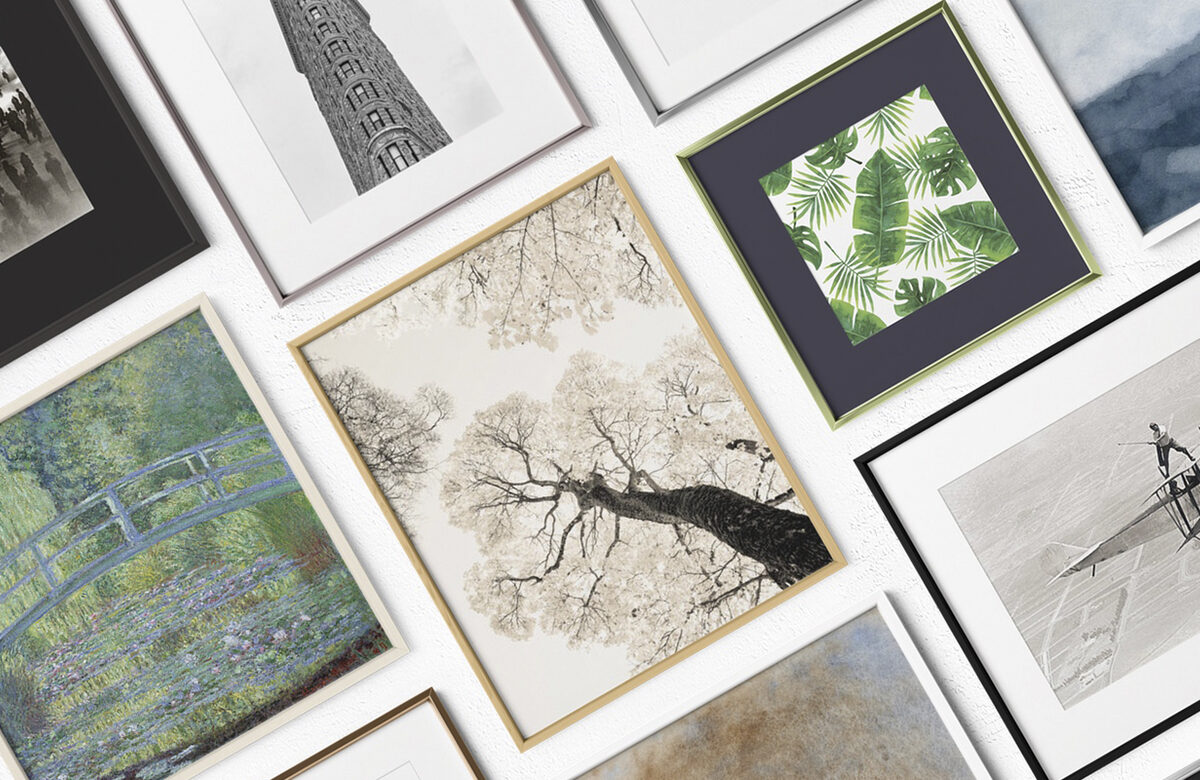
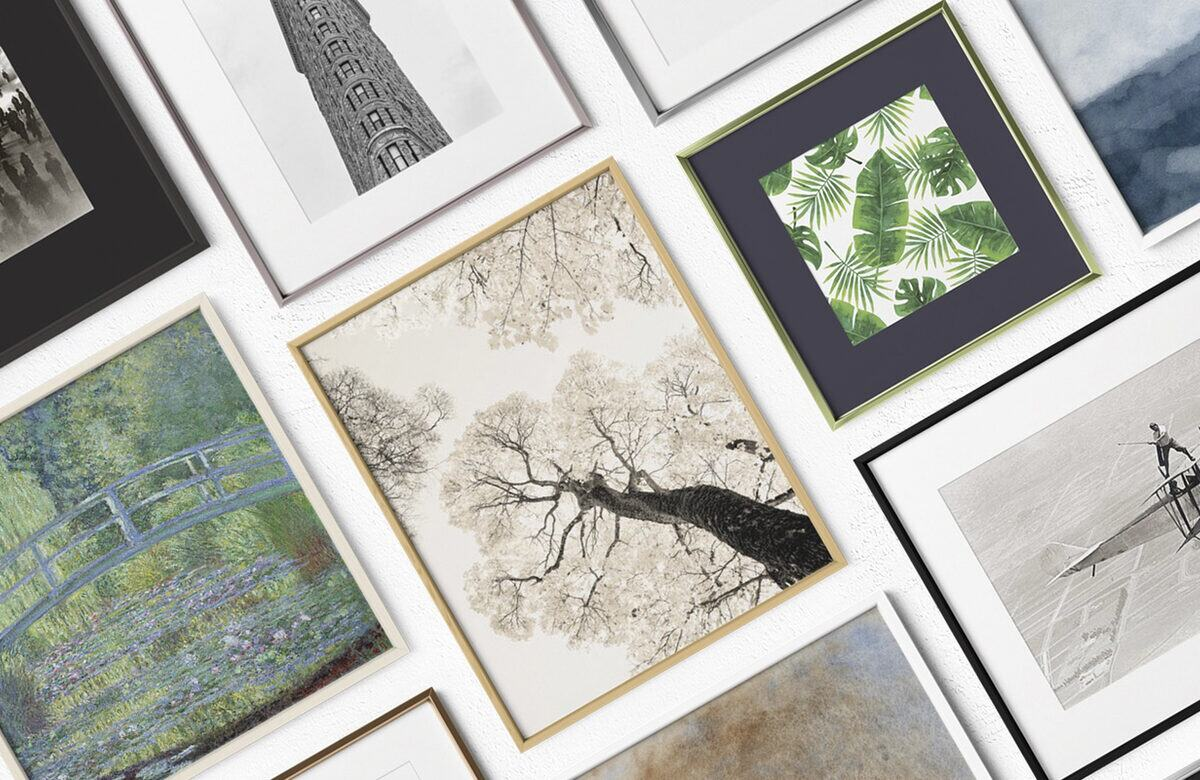
Velocidad: imágenes WebP, slider con <picture> y scripts con wp_enqueue
- Slider, fondos y popup en WebP (6,0 MB → 0,9 MB); fotos del blog de
  la demo recomprimidas en JPG porque el blueprint las sube a WordPress.
- Cada slide usa <picture>: antes los dos <img> con d-none se
  descargaban ambos y el celular bajaba también los banners de escritorio.
  La primera imagen con fetchpriority="high".
- Estilos y scripts con wp_enqueue (versión = fecha de modificación):
  un solo jQuery, el de WordPress, al final y sin jquery-migrate, con el
  alias $ para app.js; Bootstrap del CDN con SRI; Font Awesome sin
  bloquear el renderizado; Contact Form 7 solo en la plantilla Contacto;
  sin el script de emojis.
- Íconos de servicios con carga diferida.

Changed region(s): [[0.74, 0.1846, 0.7708, 0.2154]]

diff --git a/style.css b/style.css
@@ -309,7 +309,7 @@ a.wp-block-button__link:hover{
 
 /*--COTIZAR--*/
 .bannerCotizar{
-    background-image: url(assets/imagenes/banners/banner_cotizador.jpg);
+    background-image: url(assets/imagenes/banners/banner_cotizador.webp);
     background-position: left;
     background-repeat: no-repeat;
     background-size: cover;
@@ -360,7 +360,7 @@ label{
 
 /*--NOSOTROS--*/
 .seccionNosotros{
-    background-image: url(assets/imagenes/banners/banner_nosotros.jpg);
+    background-image: url(assets/imagenes/banners/banner_nosotros.webp);
     background-position: left;
     background-repeat: no-repeat;
     background-size: cover;
@@ -396,7 +396,7 @@ label{
 
 /*--CONTACTO--*/
 .bannerContacto{
-    background-image: url(assets/imagenes/banners/banner_contacto.jpg);
+    background-image: url(assets/imagenes/banners/banner_contacto.webp);
     background-position: left;
     background-repeat: no-repeat;
     background-size: cover;

diff --git a/functions.php b/functions.php
@@ -36,6 +36,76 @@ $widget5=array("name"=>"Sidebar blog",
               "after_widget"=>"</div>");
 register_sidebar($widget5);
 
+///INICIO: ESTILOS Y SCRIPTS
+// Con wp_enqueue el tema usa el mismo jQuery que WordPress (los widgets de video cargan el suyo
+// y antes quedaban dos) y los archivos propios llevan versión: sin ella el navegador seguía
+// usando la copia en caché después de un cambio.
+function dalecolor_assets() {
+    $uri     = get_template_directory_uri();
+    $version = function ( $archivo ) {
+        return filemtime( get_template_directory() . $archivo );
+    };
+
+    wp_enqueue_style( 'dalecolor-fuentes', 'https://fonts.googleapis.com/css2?family=Open+Sans:ital,wght@0,300;0,400;0,600;0,800;1,400&family=Oswald:wght@300;400;500;600&display=swap', array(), null );
+    wp_enqueue_style( 'font-awesome', 'https://use.fontawesome.com/releases/v5.6.3/css/all.css', array(), null, 'print' );
+    wp_enqueue_style( 'bootstrap', 'https://cdn.jsdelivr.net/npm/bootstrap@4.6.0/dist/css/bootstrap.min.css', array(), null );
+    wp_enqueue_style( 'dalecolor', $uri . '/style.css', array( 'bootstrap' ), $version( '/style.css' ) );
+    wp_enqueue_style( 'dalecolor-media', $uri . '/assets/css/media.css', array( 'dalecolor' ), $version( '/assets/css/media.css' ) );
+
+    wp_enqueue_script( 'bootstrap', 'https://cdn.jsdelivr.net/npm/bootstrap@4.6.0/dist/js/bootstrap.bundle.min.js', array( 'jquery' ), null, true );
+    wp_enqueue_script( 'dalecolor', $uri . '/assets/js/app.js', array( 'jquery', 'bootstrap' ), $version( '/assets/js/app.js' ), true );
+}
+add_action( 'wp_enqueue_scripts', 'dalecolor_assets' );
+
+// jQuery de WordPress al final de la página y sin jquery-migrate (el tema no lo necesita).
+// WordPress lo carga en modo noConflict, así que se recupera el alias $ que usa app.js.
+function dalecolor_jquery() {
+    $scripts = wp_scripts();
+    $scripts->registered['jquery']->deps = array( 'jquery-core' );
+    $scripts->add_data( 'jquery', 'group', 1 );
+    $scripts->add_data( 'jquery-core', 'group', 1 );
+    wp_add_inline_script( 'jquery-core', 'window.$ = window.jQuery;' );
+}
+add_action( 'wp_enqueue_scripts', 'dalecolor_jquery', 1 );
+
+// Integridad (SRI) de los archivos del CDN. Font Awesome se carga con media="print" y pasa a
+// "all" al terminar: solo trae íconos, así que no bloquea el primer renderizado.
+function dalecolor_estilos_cdn( $tag, $handle, $href ) {
+    $integridad = array(
+        'font-awesome' => 'sha384-UHRtZLI+pbxtHCWp1t77Bi1L4ZtiqrqD80Kn4Z8NTSRyMA2Fd33n5dQ8lWUE00s/',
+        'bootstrap'    => 'sha384-B0vP5xmATw1+K9KRQjQERJvTumQW0nPEzvF6L/Z6nronJ3oUOFUFpCjEUQouq2+l',
+    );
+    if ( isset( $integridad[ $handle ] ) ) {
+        $tag = str_replace( ' href=', ' integrity="' . $integridad[ $handle ] . '" crossorigin="anonymous" href=', $tag );
+    }
+    if ( 'font-awesome' === $handle ) {
+        $tag  = preg_replace( '/ media=([\'"])print\1/', ' media=$1print$1 onload="this.media=\'all\'"', $tag );
+        $tag .= '<noscript><link rel="stylesheet" href="' . esc_url( $href ) . '"></noscript>' . "\n";
+    }
+    return $tag;
+}
+add_filter( 'style_loader_tag', 'dalecolor_estilos_cdn', 10, 3 );
+
+function dalecolor_scripts_cdn( $tag, $handle ) {
+    if ( 'bootstrap' === $handle ) {
+        $tag = str_replace( ' src=', ' integrity="sha384-Piv4xVNRyMGpqkS2by6br4gNJ7DXjqk09RmUpJ8jgGtD7zP9yug3goQfGII0yAns" crossorigin="anonymous" src=', $tag );
+    }
+    return $tag;
+}
+add_filter( 'script_loader_tag', 'dalecolor_scripts_cdn', 10, 2 );
+
+// Contact Form 7 carga sus archivos solo en la plantilla Contacto, la única con formulario.
+function dalecolor_cf7_solo_en_contacto( $cargar ) {
+    return $cargar && is_page_template( 'contacto.php' );
+}
+add_filter( 'wpcf7_load_js', 'dalecolor_cf7_solo_en_contacto' );
+add_filter( 'wpcf7_load_css', 'dalecolor_cf7_solo_en_contacto' );
+
+// Sin el script de emojis de WordPress: el tema no lo necesita.
+remove_action( 'wp_head', 'print_emoji_detection_script', 7 );
+remove_action( 'wp_enqueue_scripts', 'wp_enqueue_emoji_styles' );
+///FIN: ESTILOS Y SCRIPTS
+
 ///INICIO: SOPORTE SVG (reemplaza al plugin "SVG Support")
 // Habilita subir archivos .svg desde la Biblioteca de medios.
 function dalecolor_allow_svg_upload( $mimes ) {

diff --git a/index.php b/index.php
@@ -36,7 +36,7 @@ include("banners.php"); ?>
     <div class="d-block d-md-flex">
       <div class="col col-md-4 d-block d-md-flex">
           <div class="col col-md-4">
-            <img class="float-md-right mx-auto d-block iconoInicio" src="<?php echo get_template_directory_uri() ?>/assets/imagenes/iconos/icono_cuadro.png" width="80%" height="auto">
+            <img class="float-md-right mx-auto d-block iconoInicio" src="<?php echo get_template_directory_uri() ?>/assets/imagenes/iconos/icono_cuadro.png" width="80%" height="auto" alt="" loading="lazy" decoding="async">
           </div>
           <div class="col col-md-8 mt-4 mx-md-3 text-center text-md-left">
             <h5>Puedes personalizar <br>tu cuadro. Cotiza aquí</h5>
@@ -46,7 +46,7 @@ include("banners.php"); ?>
 
       <div class="col col-md-4 d-block d-md-flex">
         <div class="col col-md-4">
-          <img class="float-md-right mx-auto d-block iconoInicio"  src="<?php echo get_template_directory_uri() ?>/assets/imagenes/iconos/framing_icon.png" width="80%" height="auto">
+          <img class="float-md-right mx-auto d-block iconoInicio"  src="<?php echo get_template_directory_uri() ?>/assets/imagenes/iconos/framing_icon.png" width="80%" height="auto" alt="" loading="lazy" decoding="async">
         </div>
         <div class="col col-md-8 mt-4 mx-md-3 text-center text-md-left">
           <h5>Contamos con una amplia <br>variedad de materiales</h5>
@@ -56,7 +56,7 @@ include("banners.php"); ?>
 
       <div class="col col-md-4 d-block d-md-flex pt-3">
           <div class="col col-md-4">
-            <img class="float-mm-right mx-auto d-block iconoInicio" src="<?php echo get_template_directory_uri() ?>/assets/imagenes/iconos/shipping_icon.png" width="80%" height="auto">
+            <img class="float-mm-right mx-auto d-block iconoInicio" src="<?php echo get_template_directory_uri() ?>/assets/imagenes/iconos/shipping_icon.png" width="80%" height="auto" alt="" loading="lazy" decoding="async">
           </div>
           <div class="col col-md-8 mt-4 mx-md-3 text-center text-md-left">
             <h5>No te pierdas el envío <br>a todo Chile</h5>
@@ -259,7 +259,7 @@ include("banners.php"); ?>
             <button type="button" class="close" data-dismiss="modal" aria-label="Close">
                 <span aria-hidden="true">&times;</span>
               </button>
-              <img src="<?php echo get_template_directory_uri() ?>/assets/imagenes/banners/banner_popup_envio_gratis.jpg" alt="Envío gratis compra superior a $20.000" width="100%" height="auto">
+              <img src="<?php echo get_template_directory_uri() ?>/assets/imagenes/banners/banner_popup_envio_gratis.webp" alt="Envío gratis compra superior a $20.000" width="1000" height="649" class="w-100 h-auto">
         </div>
       </div>
     </div>

diff --git a/banners.php b/banners.php
@@ -9,8 +9,11 @@
 
     <div class="carousel-inner">
       <div class="carousel-item active">
-        <img class="d-sm-block d-none w-100" src="<?php echo get_template_directory_uri() ?>/assets/imagenes/slider-principal/banner-principal-bienvenidos-desktop.jpg" alt="Bienvenido DaleColor">
-        <img class="d-sm-none d-block w-100" src="<?php echo get_template_directory_uri() ?>/assets/imagenes/slider-principal/banner-principal-bienvenidos-mobile.jpg" alt="Bienvenido DaleColor">
+        <!-- Con <picture> se descarga solo la imagen del ancho actual; dos <img> ocultos con d-none se descargan igual -->
+        <picture>
+          <source media="(min-width: 576px)" srcset="<?php echo get_template_directory_uri() ?>/assets/imagenes/slider-principal/banner-principal-bienvenidos-desktop.webp" width="1905" height="800">
+          <img class="d-block w-100 h-auto" src="<?php echo get_template_directory_uri() ?>/assets/imagenes/slider-principal/banner-principal-bienvenidos-mobile.webp" width="450" height="507" alt="Bienvenido DaleColor" fetchpriority="high">
+        </picture>
         <div class="carousel-caption slideBajada">
           <span class="h1 px-2">Dale color hoy a tu hogar!</span>
           <p class="pt-2 px-2">Cotiza tu cuadro ensueño y a la medida que quieras.</p>
@@ -19,8 +22,10 @@
       </div>
 
       <div class="carousel-item">
-        <img class="d-sm-block d-none w-100" src="<?php echo get_template_directory_uri() ?>/assets/imagenes/slider-principal/banner-promocion-desktop.jpg" alt="Conoce nuestra historia">
-        <img class="d-sm-none d-block w-100" src="<?php echo get_template_directory_uri() ?>/assets/imagenes/slider-principal/banner-promocion-mobile.jpg" alt="Conoce nuestra historia">
+        <picture>
+          <source media="(min-width: 576px)" srcset="<?php echo get_template_directory_uri() ?>/assets/imagenes/slider-principal/banner-promocion-desktop.webp" width="1905" height="800">
+          <img class="d-block w-100 h-auto" src="<?php echo get_template_directory_uri() ?>/assets/imagenes/slider-principal/banner-promocion-mobile.webp" width="450" height="507" alt="Conoce nuestra historia" fetchpriority="low">
+        </picture>
         <div class="carousel-caption slideBajada">
           <span class="h1 px-2">Enmárcalo todo</span>
           <p class="pt-2 px-2"><b><u>Contactános</u></b> y tendrás tu cuadro del sueño.</p>

diff --git a/header.php b/header.php
@@ -6,17 +6,12 @@
     <meta name="viewport" content="width=device-width, initial-scale=1.0">
     <meta name="description" content="<?php bloginfo("description"); ?>">
 
-    <link rel="preconnect" href="https://fonts.gstatic.com">
-    <link href="https://fonts.googleapis.com/css2?family=Open+Sans:ital,wght@0,300;0,400;0,600;0,800;1,400&family=Oswald:wght@300;400;500;600&display=swap" rel="stylesheet">
+    <link rel="preconnect" href="https://fonts.googleapis.com">
+    <link rel="preconnect" href="https://fonts.gstatic.com" crossorigin>
+    <link rel="preconnect" href="https://cdn.jsdelivr.net" crossorigin>
 
-    <link rel="stylesheet" href="https://use.fontawesome.com/releases/v5.6.3/css/all.css" integrity="sha384-UHRtZLI+pbxtHCWp1t77Bi1L4ZtiqrqD80Kn4Z8NTSRyMA2Fd33n5dQ8lWUE00s/" crossorigin="anonymous">
+    <?php wp_head(); // Estilos y scripts: dalecolor_assets() en functions.php ?>
 
-    <link rel="stylesheet" href="https://cdn.jsdelivr.net/npm/bootstrap@4.6.0/dist/css/bootstrap.min.css" integrity="sha384-B0vP5xmATw1+K9KRQjQERJvTumQW0nPEzvF6L/Z6nronJ3oUOFUFpCjEUQouq2+l" crossorigin="anonymous">
-
-    <?php wp_head(); ?>
-    <link rel="stylesheet" type="text/css" href="<?php echo get_template_directory_uri() ?>/style.css">
-    <link rel="stylesheet" type="text/css" href="<?php echo get_template_directory_uri() ?>/assets/css/media.css">
-   
     <title><?php bloginfo("name"); ?></title>
 </head>
 <!-------INICIO: HEAD------>

diff --git a/footer.php b/footer.php
@@ -46,11 +46,6 @@
     <a href="#" class="scrollTop float-right text-center"><i class="fas fa-arrow-up"></i></a>
 </div>
 
-  <script src="https://ajax.googleapis.com/ajax/libs/jquery/3.6.0/jquery.min.js"></script>
-  <script src="https://cdn.jsdelivr.net/npm/bootstrap@4.6.0/dist/js/bootstrap.bundle.min.js" integrity="sha384-Piv4xVNRyMGpqkS2by6br4gNJ7DXjqk09RmUpJ8jgGtD7zP9yug3goQfGII0yAns" crossorigin="anonymous"></script>
-
-  <script src="<?php echo get_template_directory_uri() ?>/assets/js/app.js"></script>
-
   <?php wp_footer(); ?>
 </body>
 </html>

diff --git a/DOCUMENTACION.md b/DOCUMENTACION.md
@@ -43,9 +43,10 @@ tema-dale-color/
 
 ## Qué está definido en el código
 
-- **Slider** (`banners.php`): imágenes en `assets/imagenes/slider-principal/` (versión desktop y mobile por slide) y textos escritos en el HTML. Para cambiar un slide se editan ahí la imagen y el texto.
+- **Slider** (`banners.php`): imágenes WebP en `assets/imagenes/slider-principal/` (versión desktop de 1905×800 y mobile de 450×507 por slide) y textos escritos en el HTML. Cada slide usa `<picture>`, así que el navegador descarga solo la versión de su ancho. Para cambiar un slide se editan ahí la imagen y el texto.
+- **Estilos y scripts** (`functions.php`, `dalecolor_assets()`): se cargan con `wp_enqueue_style` / `wp_enqueue_script`. Los archivos del tema llevan como versión su fecha de modificación, así el navegador toma los cambios sin vaciar la caché. El tema usa el jQuery de WordPress (al final de la página, sin `jquery-migrate`) con el alias `$` restaurado para `app.js`; Bootstrap 4.6 viene del CDN con SRI y Font Awesome se carga sin bloquear el renderizado. Contact Form 7 solo carga sus archivos en la plantilla Contacto y el script de emojis de WordPress está desactivado.
 - **Cotizador** (`index.php` + `assets/js/app.js`): el selector muestra el bloque de 1, 2 o 3 cuadros; los precios se calculan en las funciones `f2()`, `f3()` y `f4()` de `app.js` — ahí se ajustan los valores.
-- **Popup promocional** (`index.php`, modal `#popupInicio`): la imagen vive en `assets/imagenes/banners/banner_popup_envio_gratis.jpg`; se dispara desde `app.js` al cargar la portada.
+- **Popup promocional** (`index.php`, modal `#popupInicio`): la imagen vive en `assets/imagenes/banners/banner_popup_envio_gratis.webp`; se dispara desde `app.js` al cargar la portada.
 - **Sección servicios** (`index.php`): iconos y textos escritos en el HTML, imágenes en `assets/imagenes/iconos/`.
 - **WhatsApp** (`contacto.php`): el número va en el enlace `api.whatsapp.com/send?phone=...`.
 - **Soporte SVG** (`functions.php`): WordPress bloquea `.svg` por defecto (pueden traer `<script>` o atributos `on*`, un riesgo de XSS). Se habilita el mime-type vía `upload_mimes` / `wp_check_filetype_and_ext`, y cada archivo se sanitiza con `DOMDocument` antes de guardarse, tanto en la subida normal (`wp_handle_upload_prefilter`) como en la de la API REST y `media_handle_sideload()` (`wp_handle_sideload_prefilter`):
@@ -58,7 +59,8 @@ tema-dale-color/
 
 - Los botones «Cotizar ahora» y el enlace «contáctanos» en `index.php` usan `home_url( '/contactanos/' )`, así que apuntan al dominio real donde se instale el tema. El enlace de WhatsApp en `contacto.php` sigue usando un número de ejemplo (ficticio).
 - El slider asume exactamente 2 slides (los indicadores están escritos a mano en `banners.php`).
-- Probado en WordPress 7.0.1 con PHP 8.2; Bootstrap 4.6 y Font Awesome se cargan desde `header.php`/`footer.php`.
+- Probado en WordPress 7.0.1 con PHP 8.2.
+- Las imágenes del diseño están en WebP. Para reemplazar una, conviene exportarla al ancho con que se muestra (los fondos del cotizador y de contacto se ven a media pantalla, así que basta con 1200px).
 
 ## Historia del proyecto
 
